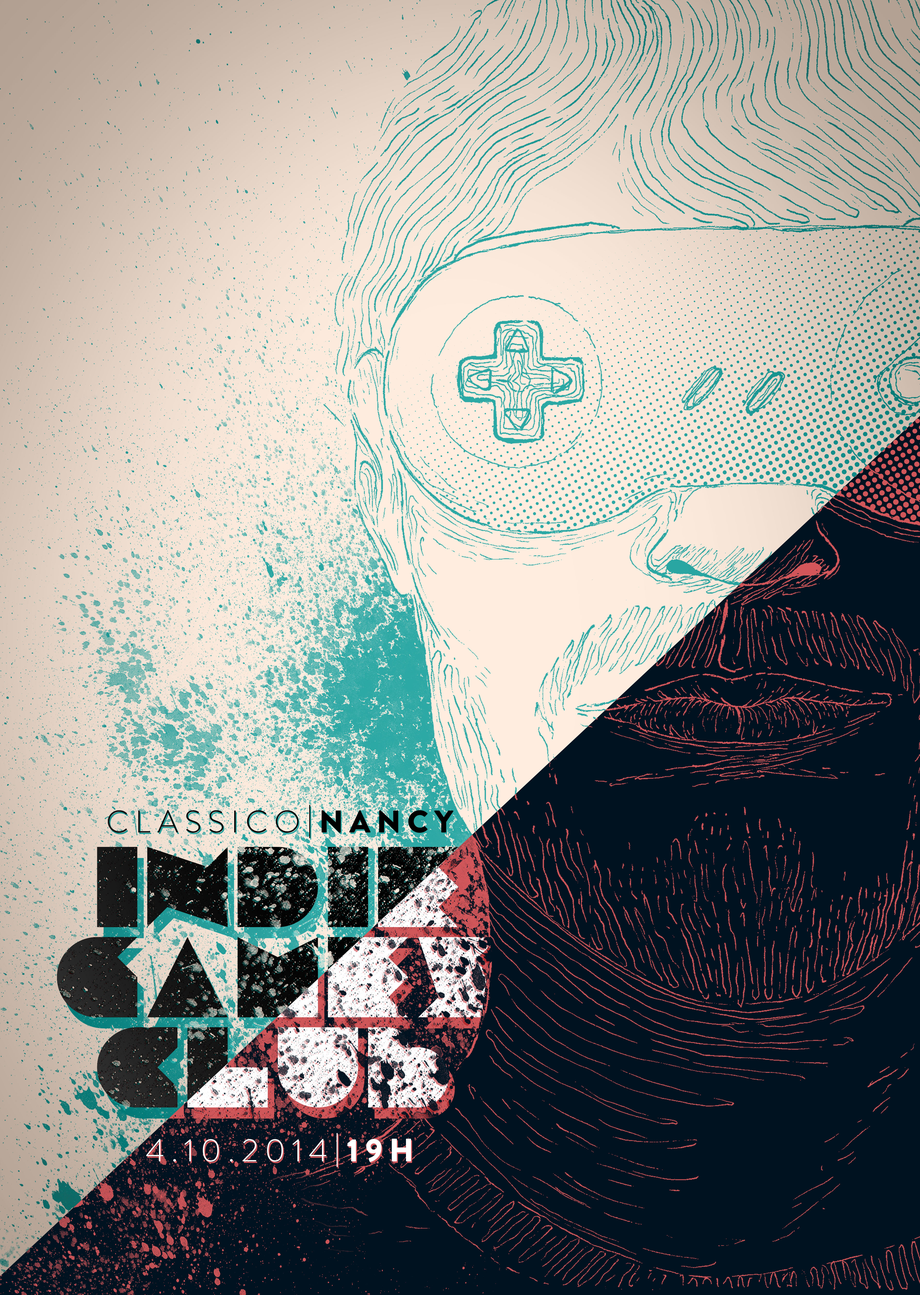
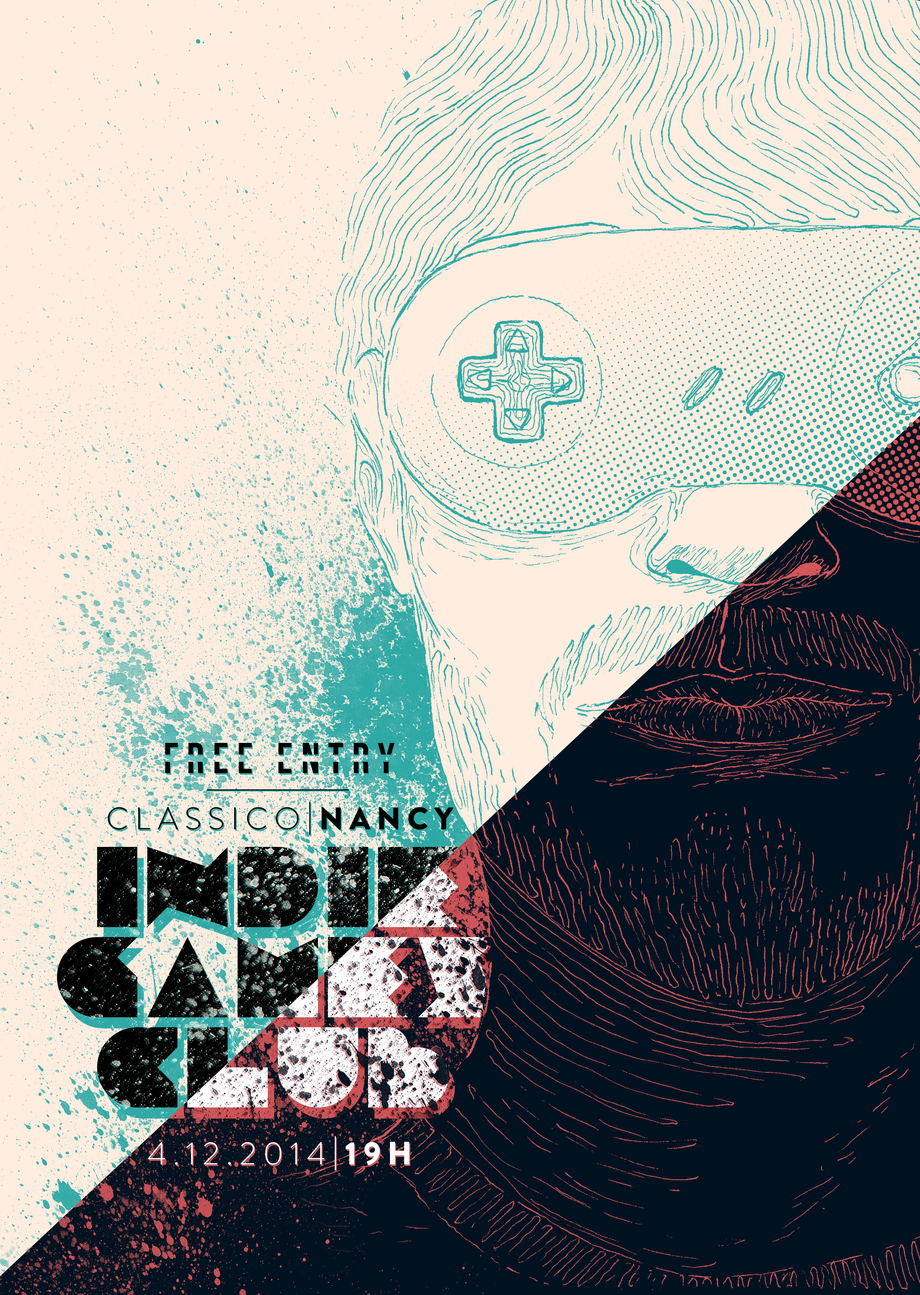
fix flyer date, lower res

Changed region(s): [[0.0, 0.0, 1.0, 0.9944]]

diff --git a/index.html b/index.html
@@ -34,7 +34,7 @@
           <span class="credits right">au <a href="https://www.facebook.com/leclassicopub">Classico</a> à <a href="https://www.google.fr/maps/place/1+Rue+G%C3%A9n%C3%A9ral+Hoche,+54000+Nancy/@48.6844485,6.1700789,17z/data=!3m1!4b1!4m2!3m1!1s0x47949879d13abb93:0xb286d995afabc704">Nancy</a></span>
         </div>
 
-        <img src="images/flyer_3500.jpg" style="height:auto; width:48%; float:left">
+        <img src="images/flyer_800.jpg" style="height:auto; width:48%; float:left">
 
         <ul style="float:right; width:40%">
            <li>
